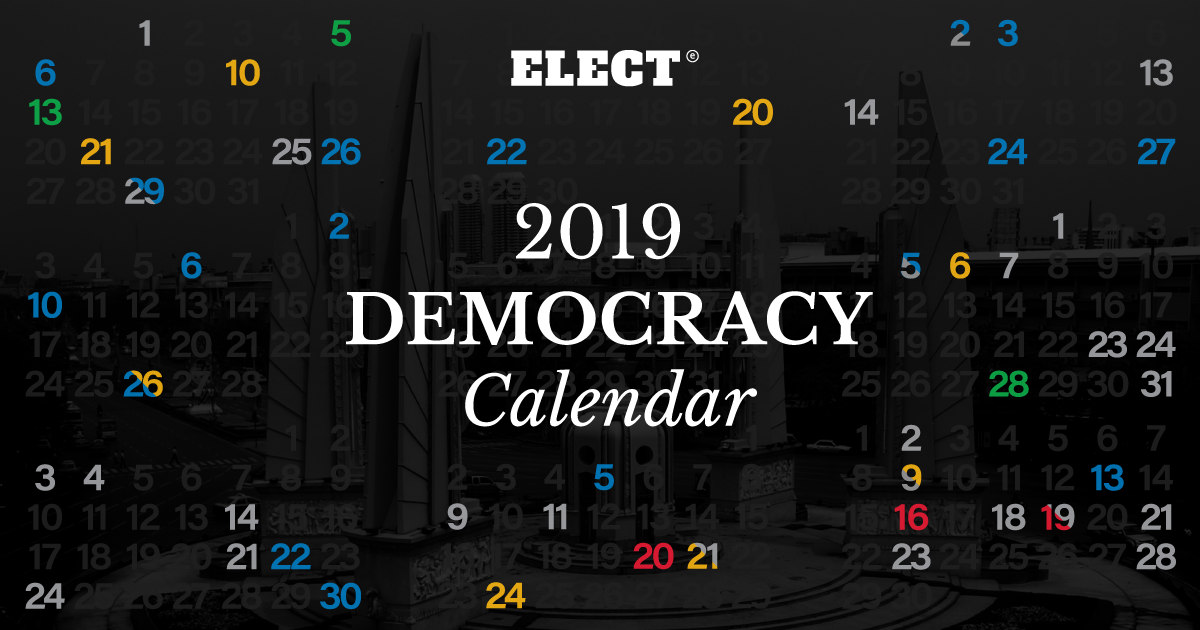
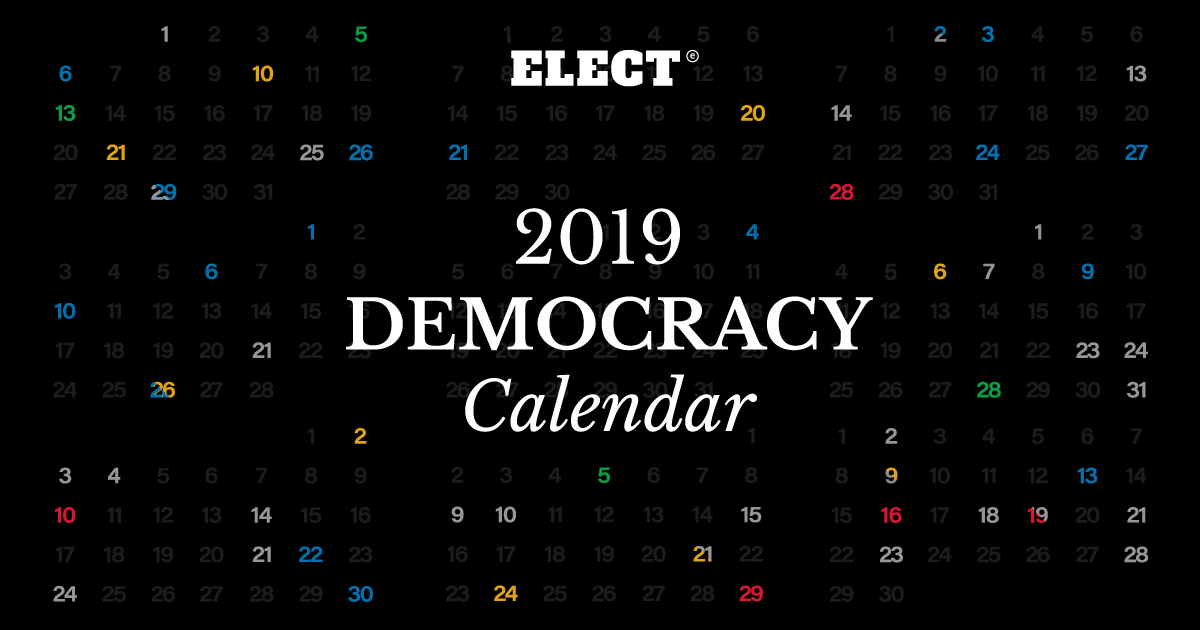
New header layout; add yearly calendar download

diff --git a/index.html b/index.html
@@ -94,10 +94,10 @@
   </header>
 
   <section id="intro">
+    <div id="language">ภาษาไทย | English</div>
     <div id="title">
       <h1>2019</h1>
-      <h1>DEMOCRACY</h1>
-      <h1>Calendar</h1>
+      <h1>DEMOCRACY CALENDAR</h1>
     </div>
     <svg id="legend"></svg>
     <div id="days-of-week">
@@ -123,7 +123,7 @@
       </div>
     </div>
     <div class="download">
-      ดาวน์โหลดปฏิทินนี้เป็นภาพตามเดือน:<br />
+      ดาวน์โหลดปฏิทินนี้<a target="_blank" href="images/month-all.png">ทั้งปี</a> หรือตามเดือน:<br />
       <a target="_blank" href="images/month-01.png">Jan</a>,
       <a target="_blank" href="images/month-02.png">Feb</a>,
       <a target="_blank" href="images/month-03.png">Mar</a>,
@@ -142,8 +142,13 @@
     </div> -->
   </section>
 
-  <section id="popup">
-    <div class="events"></div>
+  <section id="popup" class="shown">
+    <div class="events">
+      <div class="event" style="background-color: #EB1937; color: white;">
+        <h2>วันนี้… มีอะไรเกิดขึ้นกับประชาธิปไตยไทยบ้าง</h2>
+        <h3>แจกปฏิทินประชาธิปไตยไทย<br>กดดูรายละเอียดตามวัน<br>หรือดาว์นโหลดไปใช้กันก็ได้</h3>
+      </div>
+    </div>
   </section>
 
   <!-- <script async defer src="//platform.instagram.com/en_US/embeds.js"></script> -->

diff --git a/main.js b/main.js
@@ -83,6 +83,7 @@ d3.csv('events.csv', function (data) {
     .on('click', d => {
       if (d.events && d.events.length > 0) { // special date with events
         popup.classed('shown', true);
+        popup.select('.events').selectAll('*').remove();
         popup.select('.events').selectAll('.event')
           .data(d.events)
           .enter()
@@ -97,7 +98,6 @@ d3.csv('events.csv', function (data) {
   popup.on('click', () => {
     if (popup.classed('shown')) { // popup already shown (to toggle out)
       popup.classed('shown', false);
-      popup.select('.events').selectAll('*').remove();
     }
   });
   popup.select('.events').on('click', () => d3.event.stopPropagation());
@@ -111,7 +111,8 @@ legend.append('g')
 
 let legend_ordinal = d3.legendColor()
   .shape('path', d3.symbol().type(d3.symbolCircle).size(50)())
-  .shapePadding(5)
+  .shapePadding(52)
+  .orient('horizontal')
   .scale(event_color_scale);
 
 legend.select('.legend-ordinal')

diff --git a/main.css b/main.css
@@ -62,24 +62,34 @@ a:hover {
   /* position: fixed; */
   /* left: 50%; */
   /* margin-left: -140px; */
-  z-index: 1;
-  overflow-x: visible;
-  background-color: black;
+  /* z-index: 1; */
+  /* overflow-x: visible; */
+  /* background-color: black; */
 }
 
+#language {
+  text-align: right;
+  padding-top: 1em;
+  font-family: 'Noto Sans Thai UI', 'Noto Sans', sans-serif;
+  font-size: 7pt;
+}
 #title {
-  width: 180px;
-  display: inline-block;
-  vertical-align: bottom;
+  width: 280px;
+  display: block;
+  /* vertical-align: bottom; */
+  text-align: center;
+  padding-top: 1em;
 }
 #legend {
-  width: 95px;
-  height: 100px;
-  display: inline-block;
-  vertical-align: bottom;
+  width: 280px;
+  height: 50px;
+  display: block;
+  /* vertical-align: bottom; */
   font-family: 'Noto Sans Thai UI', 'Noto Sans', sans-serif;
   font-size: 7pt;
   fill: white;
+  margin-top: -1em;
+  overflow: visible;
 }
 #days-of-week {
   margin-top: 10px;
